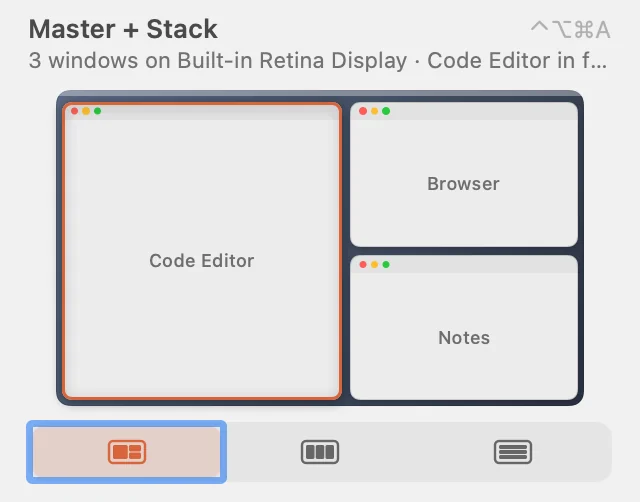
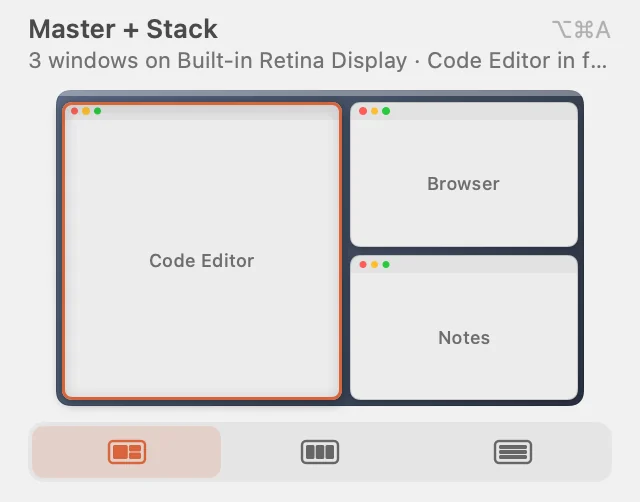
feat(app): main shortcuts are Option-Command A, R and Z (#14)
Arrange ⌥⌘A, Rotate ⌥⌘R, Undo ⌥⌘Z (were ⌃⌥⌘A/R/Z). Users who still have
the old defaults get the new ones once on launch; custom shortcuts stay.
Website, README, onboarding and screenshots updated.

Changed region(s): [[0.0312, 0.8367, 0.375, 0.9861]]

diff --git a/web/index.html b/web/index.html
@@ -4,10 +4,10 @@
 <meta charset="utf-8">
 <meta name="viewport" content="width=device-width, initial-scale=1, viewport-fit=cover">
 <title>ordino: one-keystroke window layouts for Mac</title>
-<meta name="description" content="A free menu bar app that arranges every window on a display when you press ⌃⌥⌘A. Runs on macOS 14 Sonoma or later, Apple silicon and Intel.">
+<meta name="description" content="A free menu bar app that arranges every window on a display when you press ⌥⌘A. Runs on macOS 14 Sonoma or later, Apple silicon and Intel.">
 <meta property="og:type" content="website">
 <meta property="og:title" content="ordino: one-keystroke window layouts for Mac">
-<meta property="og:description" content="A free menu bar app that arranges every window on a display when you press ⌃⌥⌘A.">
+<meta property="og:description" content="A free menu bar app that arranges every window on a display when you press ⌥⌘A.">
 <meta property="og:image" content="https://ordino-app.github.io/ordino/og-image.png">
 <meta property="og:image:width" content="1200">
 <meta property="og:image:height" content="630">
@@ -439,14 +439,14 @@
       <div class="hero__c">
         <p class="pill"><span>Free for Mac</span><span class="muted" data-dl-label>Version 0.2.0-beta.1 · 3.6 MB</span></p>
         <h1 id="hero-h">One-keystroke window layouts for Mac</h1>
-        <p class="hero__lead">Press <span class="kbd">⌃⌥⌘A</span> and ordino arranges every window on the display, picking the layout by window count and screen shape. For macOS 14 Sonoma or later.</p>
+        <p class="hero__lead">Press <span class="kbd">⌥⌘A</span> and ordino arranges every window on the display, picking the layout by window count and screen shape. For macOS 14 Sonoma or later.</p>
         <div class="btn-row">
           <a class="btn btn--primary" href="https://ordino-app.github.io/ordino-updates/archives/ordino-0.2.0-beta.1.zip" data-download>Download<svg class="m-arrow" viewBox="0 0 12 12" aria-hidden="true"><path class="m-arrow__stem" d="M1 6h8"/><path class="m-arrow__head" d="M4.5 2.5 8 6l-3.5 3.5"/></svg></a>
           <a class="btn btn--secondary" href="#shortcuts">See the shortcuts</a>
         </div>
         <button type="button" class="brew" data-copy="#brew-cmd" aria-label="Copy the Homebrew install command"><span class="brew__label">Homebrew</span><code id="brew-cmd">brew install --cask ordino-app/tap/ordino</code><span class="brew__hint" aria-hidden="true">Copy</span></button>
       </div>
-      <div class="hero__window" data-fx="grain-gradient" data-fx-seed="7" data-fx-palette='{"bg":"#dccfba","surface":"#ece4d6","ink":"#2a2622","accent":"#c98a62"}' role="img" aria-label="A Mac desktop with a code editor, a browser and a design tool windows scattered; after ⌃⌥⌘A, the code editor takes the large left slot and the browser and design tool stack on the right">
+      <div class="hero__window" data-fx="grain-gradient" data-fx-seed="7" data-fx-palette='{"bg":"#dccfba","surface":"#ece4d6","ink":"#2a2622","accent":"#c98a62"}' role="img" aria-label="A Mac desktop with a code editor, a browser and a design tool windows scattered; after ⌥⌘A, the code editor takes the large left slot and the browser and design tool stack on the right">
         <div class="desk mac" data-desk aria-hidden="true">
           <script>document.currentScript.parentElement.classList.add('is-scattered')</script>
           <div class="desk__bar"><span>Code</span><span class="dim">File</span><span class="dim">Edit</span><span class="dim">View</span><span class="sp"></span><img width="16" height="16" src="logo-mark.svg" alt=""><span class="dim opt">Mon 9:41</span></div>
@@ -467,7 +467,7 @@
               <div class="win__body"><div class="canvas"><div class="canvas__art"><i></i><b style="width:70%"></b><b style="width:45%"></b></div></div></div>
             </div></div>
           </div>
-          <div class="hud"><span class="kbd">⌃⌥⌘A</span><span>Master + Stack · 3 windows</span></div>
+          <div class="hud"><span class="kbd">⌥⌘A</span><span>Master + Stack · 3 windows</span></div>
         </div>
       </div>
     </div></div>
@@ -489,8 +489,8 @@
             <div class="mmenu__card mmenu__card--real">
               <img src="media/menu-card.webp" width="320" height="252" loading="lazy" decoding="async" alt="">
             </div>
-            <div class="mi is-on">Arrange Windows<span class="kbd">⌃⌥⌘A</span></div>
-            <div class="mi">Undo Arrange<span class="kbd">⌃⌥⌘Z</span></div>
+            <div class="mi is-on">Arrange Windows<span class="kbd">⌥⌘A</span></div>
+            <div class="mi">Undo Arrange<span class="kbd">⌥⌘Z</span></div>
             <div class="msep"></div>
             <div class="mi"><span class="mi__i mi__i--win"></span>Move Window<span class="chev">›</span></div>
             <div class="mi"><span class="mi__i mi__i--grid"></span>Workspaces<span class="chev">›</span></div>
@@ -555,7 +555,7 @@
         </article>
         <article class="card card--row card--open span-6 m-nolift">
           <h3>Tries the next layout on a second press</h3>
-          <p>Press <span class="kbd">⌃⌥⌘A</span> again within 2 seconds for the next layout. <span class="kbd">⌃⌥⌘Z</span> undoes a run of quick presses in one step.</p>
+          <p>Press <span class="kbd">⌥⌘A</span> again within 2 seconds for the next layout. <span class="kbd">⌥⌘Z</span> undoes a run of quick presses in one step.</p>
           <div class="panel" data-fx="painterly-landscape" data-fx-seed="58" data-fx-params='{"drift":0,"speed":0,"blur":1,"brush":0.35,"slope":0,"hillY":0.3,"horizon":0.62}' data-fx-palette='{"bg":"#d9ccb7","surface":"#e9e0d2","ink":"#2a2622","accent":"#a8794a"}'>
             <div class="lay lay--next" role="img" aria-label="Pressing Control Option Command A a second time within 2 seconds turns Master + Stack into three columns">
               <div class="keys"><span>⌃</span><span>⌥</span><span>⌘</span><span>A</span></div>
@@ -646,7 +646,7 @@
   <section class="section" id="statement" data-moment="letters-assemble" aria-labelledby="statement-h">
     <div class="wrap">
       <h2 class="mo-la__type" id="statement-h">Every window, in its place.</h2>
-      <p class="mo-la__sub">Arranging a screen that is already arranged changes nothing. <span class="kbd">⌃⌥⌘R</span> rotates the windows through the slots.</p>
+      <p class="mo-la__sub">Arranging a screen that is already arranged changes nothing. <span class="kbd">⌥⌘R</span> rotates the windows through the slots.</p>
       <div class="rot" role="img" aria-label="Control Option Command R moves a code editor, a browser and a design tool through the three slots, one slot each press">
         <div class="keys keys--lg"><span>⌃</span><span>⌥</span><span>⌘</span><span>R</span></div>
         <div class="scr scr--3"><i class="p slot"><img loading="lazy" width="26" height="26" src="media/icons/code.svg" alt=""></i><i class="slot"><img loading="lazy" width="26" height="26" src="media/icons/browser.svg" alt=""></i><i class="slot"><img loading="lazy" width="26" height="26" src="media/icons/design.svg" alt=""></i></div>

diff --git a/Sources/OrdinoApp/Onboarding.swift b/Sources/OrdinoApp/Onboarding.swift
@@ -90,7 +90,7 @@ private struct OnboardingView: View {
                 .foregroundStyle(.tint)
             Text("Every window, in its place.").font(.title.weight(.semibold))
             Text(
-                "ordino arranges all windows on a display with one keystroke: ⌃⌥⌘A. Press it again to try the next layout."
+                "ordino arranges all windows on a display with one keystroke: ⌥⌘A. Press it again to try the next layout."
             )
             .foregroundStyle(.secondary)
 
@@ -99,9 +99,9 @@ private struct OnboardingView: View {
                     .foregroundStyle(.green).font(.headline)
                 VStack(alignment: .leading, spacing: 8) {
                     Text("Try these").font(.headline)
-                    TipRow(keys: Self.keys(.arrange, fallback: "⌃⌥⌘A"), text: "Arrange every window on the display")
-                    TipRow(keys: Self.keys(.arrange, fallback: "⌃⌥⌘A") + " again", text: "Cycle to the next layout")
-                    TipRow(keys: Self.keys(.undo, fallback: "⌃⌥⌘Z"), text: "Put the windows back")
+                    TipRow(keys: Self.keys(.arrange, fallback: "⌥⌘A"), text: "Arrange every window on the display")
+                    TipRow(keys: Self.keys(.arrange, fallback: "⌥⌘A") + " again", text: "Cycle to the next layout")
+                    TipRow(keys: Self.keys(.undo, fallback: "⌥⌘Z"), text: "Put the windows back")
                     TipRow(keys: "Drag", text: "Pull a window to a screen edge or up to the top for more layouts")
                 }
                 Text("Everything else is in the ordino menu in the menu bar: workspaces, custom layouts, app rules.")
@@ -139,7 +139,7 @@ private struct OnboardingView: View {
 }
 
 extension OnboardingView {
-    /// The shortcut the user has for a command, as shown in menus (e.g. "⌃⌥⌘A").
+    /// The shortcut the user has for a command, as shown in menus (e.g. "⌥⌘A").
     fileprivate static func keys(_ command: Command, fallback: String) -> String {
         KeyboardShortcuts.getShortcut(for: command.shortcutName).map { "\($0)" } ?? fallback
     }

diff --git a/Sources/OrdinoApp/Commands.swift b/Sources/OrdinoApp/Commands.swift
@@ -68,13 +68,33 @@ enum ShortcutPreset: String, CaseIterable, Identifiable, Sendable {
 
     typealias S = KeyboardShortcuts.Shortcut
 
+    /// The three main shortcuts are ⌘⌥ + A/R/Z (easy to reach); the rest keep ⌃⌥⌘.
     static let arrangeDefaults: [Command: S] = [
-        .arrange: S(.a, modifiers: [.control, .option, .command]),
+        .arrange: S(.a, modifiers: [.option, .command]),
         .nextLayout: S(.rightBracket, modifiers: [.control, .option, .command]),
         .previousLayout: S(.leftBracket, modifiers: [.control, .option, .command]),
+        .rotate: S(.r, modifiers: [.option, .command]),
+        .undo: S(.z, modifiers: [.option, .command]),
+    ]
+
+    /// Defaults before 0.2.0-beta.5; users who still have them get the new ones once.
+    static let previousArrangeDefaults: [Command: S] = [
+        .arrange: S(.a, modifiers: [.control, .option, .command]),
         .rotate: S(.r, modifiers: [.control, .option, .command]),
         .undo: S(.z, modifiers: [.control, .option, .command]),
     ]
+
+    /// Moves the main shortcuts from ⌃⌥⌘ to ⌘⌥, but only where the user kept the old default.
+    @MainActor
+    static func migrateMainShortcuts() {
+        let key = "mainShortcutsMigrated"
+        guard !UserDefaults.standard.bool(forKey: key) else { return }
+        for (command, old) in previousArrangeDefaults
+        where KeyboardShortcuts.getShortcut(for: command.shortcutName) == old {
+            KeyboardShortcuts.setShortcut(arrangeDefaults[command], for: command.shortcutName)
+        }
+        UserDefaults.standard.set(true, forKey: key)
+    }
 
     var windowShortcuts: [WindowAction: S] {
         let optCmd: NSEvent.ModifierFlags = [.option, .command]

diff --git a/Sources/OrdinoApp/AppDelegate.swift b/Sources/OrdinoApp/AppDelegate.swift
@@ -419,7 +419,7 @@ final class AppDelegate: NSObject, NSApplicationDelegate {
     /// Upgraders keep what they had (no new global shortcuts taken without asking,
     /// and next/previous layout stay on ⌃⌥⌘←/→); they can pick a preset in Settings.
     private func setUpShortcutsIfNeeded() {
-        guard settings.needsShortcutSetup else { return }
+        guard settings.needsShortcutSetup else { return ShortcutPreset.migrateMainShortcuts() }
         ShortcutPreset.applyArrangeDefaults()
         if settings.isUpgradeFromEarlierVersion {
             for (command, shortcut) in ShortcutPreset.legacyLayoutCycling {
@@ -431,6 +431,7 @@ final class AppDelegate: NSObject, NSApplicationDelegate {
         }
         settings.shortcutPreset.apply()
         settings.needsShortcutSetup = false
+        UserDefaults.standard.set(true, forKey: "mainShortcutsMigrated")
     }
 
     private func registerShortcutHandlers() {

diff --git a/Sources/OrdinoApp/DebugSnapshots.swift b/Sources/OrdinoApp/DebugSnapshots.swift
@@ -32,7 +32,7 @@
                         let model = MenuCardModel()
                         model.preview = samplePreview(layout: layout, count: count)
                         let card = MenuCard(
-                            model: model, arrangeShortcut: "⌃⌥⌘A", onArrange: { _ in }, onHover: { _ in },
+                            model: model, arrangeShortcut: "⌥⌘A", onArrange: { _ in }, onHover: { _ in },
                             onPickPrimary: { _ in }
                         )
                         .background(.regularMaterial)

diff --git a/README.md b/README.md
@@ -27,10 +27,10 @@ make run-app     # builds build/ordino.app and launches it
 
 | Default shortcut | Action |
 |---|---|
-| ⌃⌥⌘A | Arrange the display. Press again within 2 s for the next layout |
+| ⌥⌘A | Arrange the display. Press again within 2 s for the next layout |
 | ⌃⌥⌘] / ⌃⌥⌘[ | Next / previous layout |
-| ⌃⌥⌘R | Rotate windows through the slots |
-| ⌃⌥⌘Z | Undo (a run of quick presses is one step) |
+| ⌥⌘R | Rotate windows through the slots |
+| ⌥⌘Z | Undo (a run of quick presses is one step) |
 
 **Window actions** for the active window, like Rectangle: halves, corners, thirds, fourths, sixths, maximize, almost maximize, maximize height, larger, smaller, center, move to edge, restore, next/previous display. Pressing a half again cycles ½ → ⅔ → ⅓. They're in the menu, and get shortcuts from a preset (Rectangle-style ⌃⌥ arrows by default, Spectacle-style ⌥⌘ arrows, or none). Every shortcut can be changed in **Settings › Shortcuts**. If another window manager is running, ordino leaves window shortcuts unassigned so they don't collide.
 

diff --git a/docs/INSTALL.md b/docs/INSTALL.md
@@ -8,7 +8,7 @@ ordino is free and isn't notarized by Apple (that needs a paid developer account
 4. Open **System Settings > Privacy & Security**, scroll down to the message about ordino and click **Open Anyway**, then confirm.
 5. ordino shows its welcome window. Click **Open System Settings** and turn on **ordino** under **Accessibility**. ordino notices by itself and continues.
 
-That's it. Press **⌃⌥⌘A** to arrange the display under the mouse.
+That's it. Press **⌥⌘A** to arrange the display under the mouse.
 
 ## Updates
 
